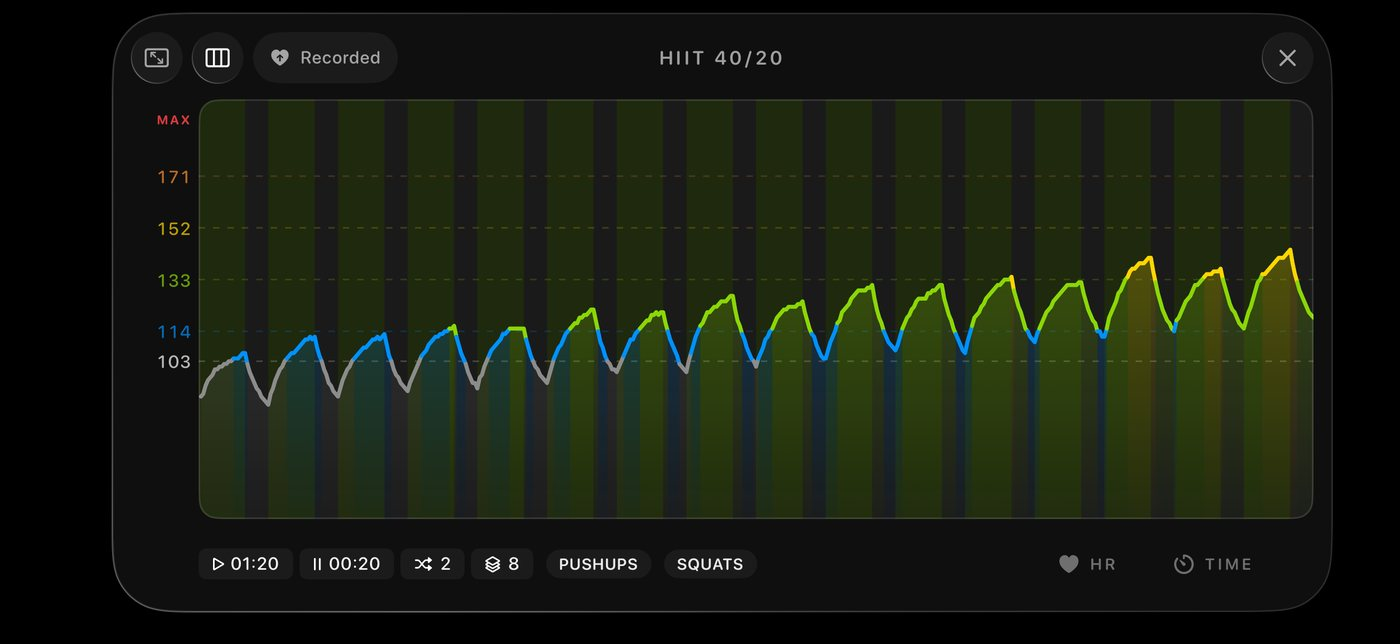
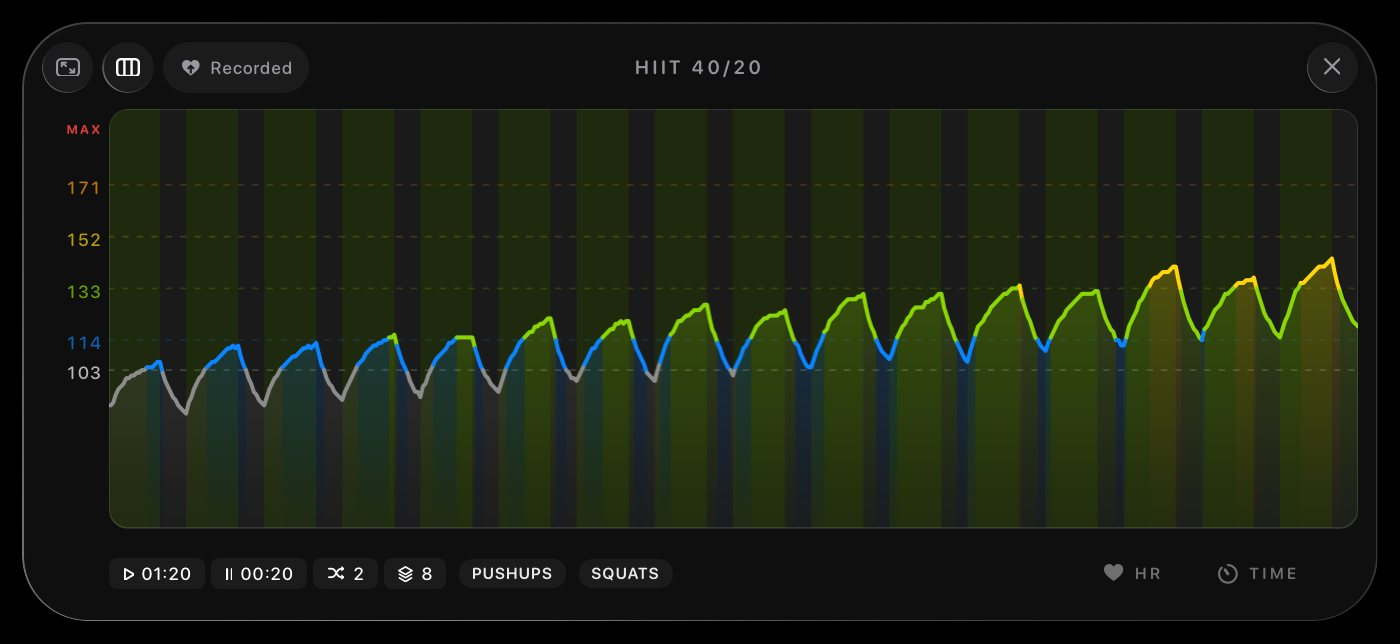
v1.12.0 [chore]: update heart-rate index styles — #1

diff --git a/styles.css b/styles.css
@@ -594,7 +594,7 @@ button { font: inherit; color: inherit; background: none; border: 0; }
 .hr-app { position: absolute; inset: 0; container-type: inline-size; background: #000; color: #fff; line-height: normal; -webkit-user-select: none; user-select: none; -webkit-tap-highlight-color: transparent; }
 .hr-app[hidden] { display: none; }
 .hr-app * { --u: calc(100cqw / 874); }
-.hr-card { position: absolute; left: calc(8 * var(--u)); top: calc(8 * var(--u)); width: calc(858 * var(--u)); height: calc(374 * var(--u)); border-radius: calc(36 * var(--u)); background: #0f0f0f; transition: opacity 0.2s ease, transform 0.2s ease; }
+.hr-card { position: absolute; left: calc(14 * var(--u)); top: calc(14 * var(--u)); width: calc(846 * var(--u)); height: calc(374 * var(--u)); border-radius: calc(41 * var(--u)); background: #0f0f0f; transition: opacity 0.2s ease, transform 0.2s ease; }
 .hr-card.closing { opacity: 0; transform: translateY(calc(24 * var(--u))) scale(0.97); }
 /* specular rim: light from the lower left, as the simulator draws it */
 .hr-card::after, .hr-btn::after { content: ""; position: absolute; inset: 0; border-radius: inherit; pointer-events: none; -webkit-mask: linear-gradient(#000 0 0) content-box, linear-gradient(#000 0 0); -webkit-mask-composite: xor; mask: linear-gradient(#000 0 0) content-box exclude, linear-gradient(#000 0 0); }
@@ -607,16 +607,16 @@ button { font: inherit; color: inherit; background: none; border: 0; }
 .hr-btn svg, .hr-zones svg, .hr-read svg { display: block; }
 #hrAuto { left: calc(12 * var(--u)); }
 #hrStrips { left: calc(50 * var(--u)); }
-.hr-close { left: calc(814 * var(--u)); }
+.hr-close { left: calc(802 * var(--u)); }
 .hr-zones { left: calc(88 * var(--u)); display: flex; align-items: center; gap: calc(6 * var(--u)); padding: 0 calc(10 * var(--u)); border-radius: 99px; font-size: calc(11 * var(--u)); font-weight: 500; }
 .hr-zones i { display: flex; width: calc(13.6 * var(--u)); }
 .hr-zones svg { margin-left: calc(1.33 * var(--u)); }
-.hr-title { position: absolute; left: calc(12 * var(--u)); top: calc(10 * var(--u)); width: calc(834 * var(--u)); height: calc(36 * var(--u)); display: grid; place-items: center; font-size: calc(12 * var(--u)); font-weight: 600; letter-spacing: calc(1.5 * var(--u)); color: rgba(235, 235, 245, 0.6); pointer-events: none; }
+.hr-title { position: absolute; left: calc(12 * var(--u)); top: calc(10 * var(--u)); width: calc(822 * var(--u)); height: calc(36 * var(--u)); display: grid; place-items: center; font-size: calc(12 * var(--u)); font-weight: 600; letter-spacing: calc(1.5 * var(--u)); color: rgba(235, 235, 245, 0.6); pointer-events: none; }
 .hr-y { position: absolute; left: calc(12 * var(--u)); top: calc(54 * var(--u)); width: calc(38 * var(--u)); height: calc(262 * var(--u)); pointer-events: none; }
 .hr-y span { position: absolute; right: 0; font-size: calc(11 * var(--u)); font-weight: 500; font-variant-numeric: tabular-nums; white-space: nowrap; }
 .hr-y span.max { font-size: calc(8 * var(--u)); font-weight: 700; letter-spacing: calc(0.8 * var(--u)); color: rgba(255, 69, 58, 0.85); }
 .hr-y span.ext { font-weight: 700; color: rgba(255, 255, 255, 0.9); }
-.hr-plot { position: absolute; left: calc(54 * var(--u)); top: calc(54 * var(--u)); width: calc(792 * var(--u)); height: calc(262 * var(--u)); border-radius: calc(12 * var(--u)); overflow: hidden; touch-action: pan-y; cursor: crosshair; outline: none; }
+.hr-plot { position: absolute; left: calc(54 * var(--u)); top: calc(54 * var(--u)); width: calc(780 * var(--u)); height: calc(262 * var(--u)); border-radius: calc(12 * var(--u)); overflow: hidden; touch-action: pan-y; cursor: crosshair; outline: none; }
 .hr-plot::after { content: ""; position: absolute; inset: 0; border-radius: inherit; box-shadow: inset 0 0 0 calc(1 * var(--u)) rgba(255, 255, 255, 0.12); pointer-events: none; }
 .hr-plot:focus-visible::after { box-shadow: inset 0 0 0 calc(1.5 * var(--u)) var(--lime); }
 .hr-plot canvas { position: absolute; inset: 0; width: 100%; height: 100%; }
@@ -629,8 +629,8 @@ button { font: inherit; color: inherit; background: none; border: 0; }
 .hr-pill { display: flex; align-items: center; height: calc(18 * var(--u)); padding: 0 calc(8 * var(--u)); border-radius: 99px; background: #1b1b1b; font-size: calc(10 * var(--u)); font-weight: 600; color: rgba(255, 255, 255, 0.9); white-space: nowrap; }
 .hr-pill.hi { color: var(--lime); }
 .hr-pill.dim { opacity: 0.3; font-weight: 500; color: rgba(255, 255, 255, 0.25); }
-.hr-read { position: absolute; left: calc(686 * var(--u)); top: calc(322 * var(--u)); width: calc(64 * var(--u)); height: calc(44 * var(--u)); display: flex; align-items: center; gap: calc(6 * var(--u)); color: rgba(255, 255, 255, 0.4); pointer-events: none; }
-.hr-read.tm { left: calc(758 * var(--u)); width: calc(82 * var(--u)); }
+.hr-read { position: absolute; left: calc(674 * var(--u)); top: calc(322 * var(--u)); width: calc(64 * var(--u)); height: calc(44 * var(--u)); display: flex; align-items: center; gap: calc(6 * var(--u)); color: rgba(255, 255, 255, 0.4); pointer-events: none; }
+.hr-read.tm { left: calc(746 * var(--u)); width: calc(82 * var(--u)); }
 .hr-read i { display: flex; justify-content: center; width: calc(14.7 * var(--u)); }
 .hr-read.tm i { width: calc(14.1 * var(--u)); }
 .hr-read b { font-size: calc(10 * var(--u)); font-weight: 600; letter-spacing: calc(1.5 * var(--u)); }

diff --git a/index.html b/index.html
@@ -278,7 +278,7 @@
                 <span class="hr-read tm" id="hrTime"><i></i><b>TIME</b></span>
               </div>
             </div>
-            <span class="hl" style="--x:7.1%;--y:15%;--w:90.6%;--h:65.6%;--r:2.4%"></span>
+            <span class="hl" style="--x:7.78%;--y:16.5%;--w:89.24%;--h:65.6%;--r:2.4%"></span>
           </div></figure>
           <div class="feat-copy">
             <h3><span class="dot">&rsaquo;</span> Heart rate</h3>
@@ -2455,12 +2455,12 @@
 
     /* ---------- Live heart rate chart: HRDetailView, the screen the app shows sideways ----------
        A port of its drawChart, scrub readouts and toggles, drawn from #hrData (the same workout as
-       the heart rate export). Lengths are app points: the plot is 792 x 262 (card widened to fill the screen). */
+       the heart rate export). Lengths are app points: the plot is 780 x 262 (card widened to fill the screen, 14 pt from every edge). */
     (function () {
       var app = $("#hrApp"), dataEl = $("#hrData");
       if (!app || !dataEl) return;
       var D = JSON.parse(dataEl.textContent);
-      var PW = 792, PH = 262, TOP = 14;
+      var PW = 780, PH = 262, TOP = 14;
       var ZONE = ["#ffffff", "#0a84ff", "#8bd706", "#ffd60a", "#ff9f0a", "#ff453a"], WORK = "#8bd706", REST = "#636366";
       var ZONES = [103, 114, 133, 152, 171];   /* recorded then and current now are the same for this soldier */
       var pts = D.bpm.map(function (b, i) { return { t: D.t0 + i * D.dt, bpm: b }; });
